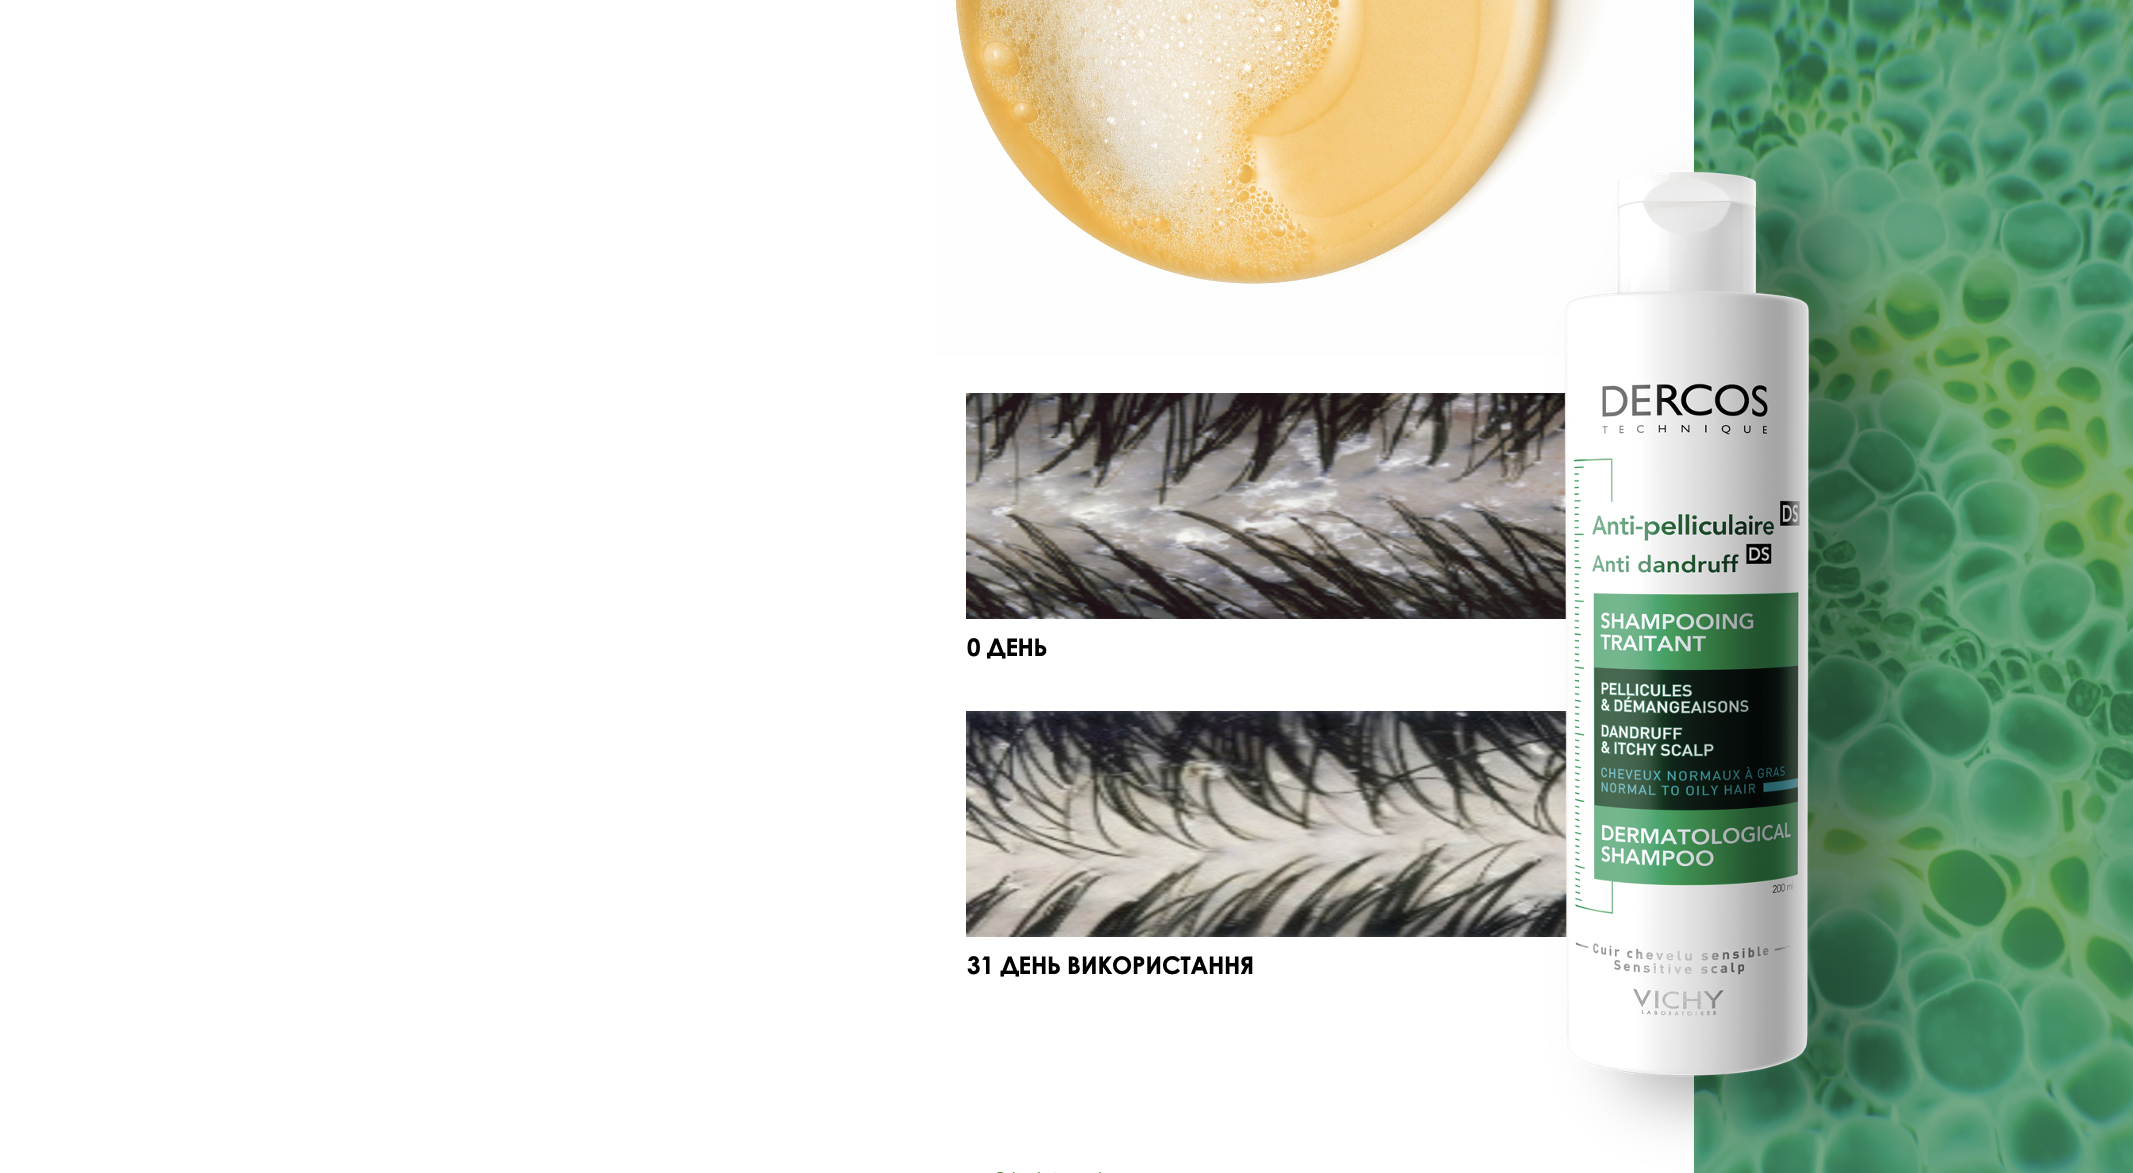
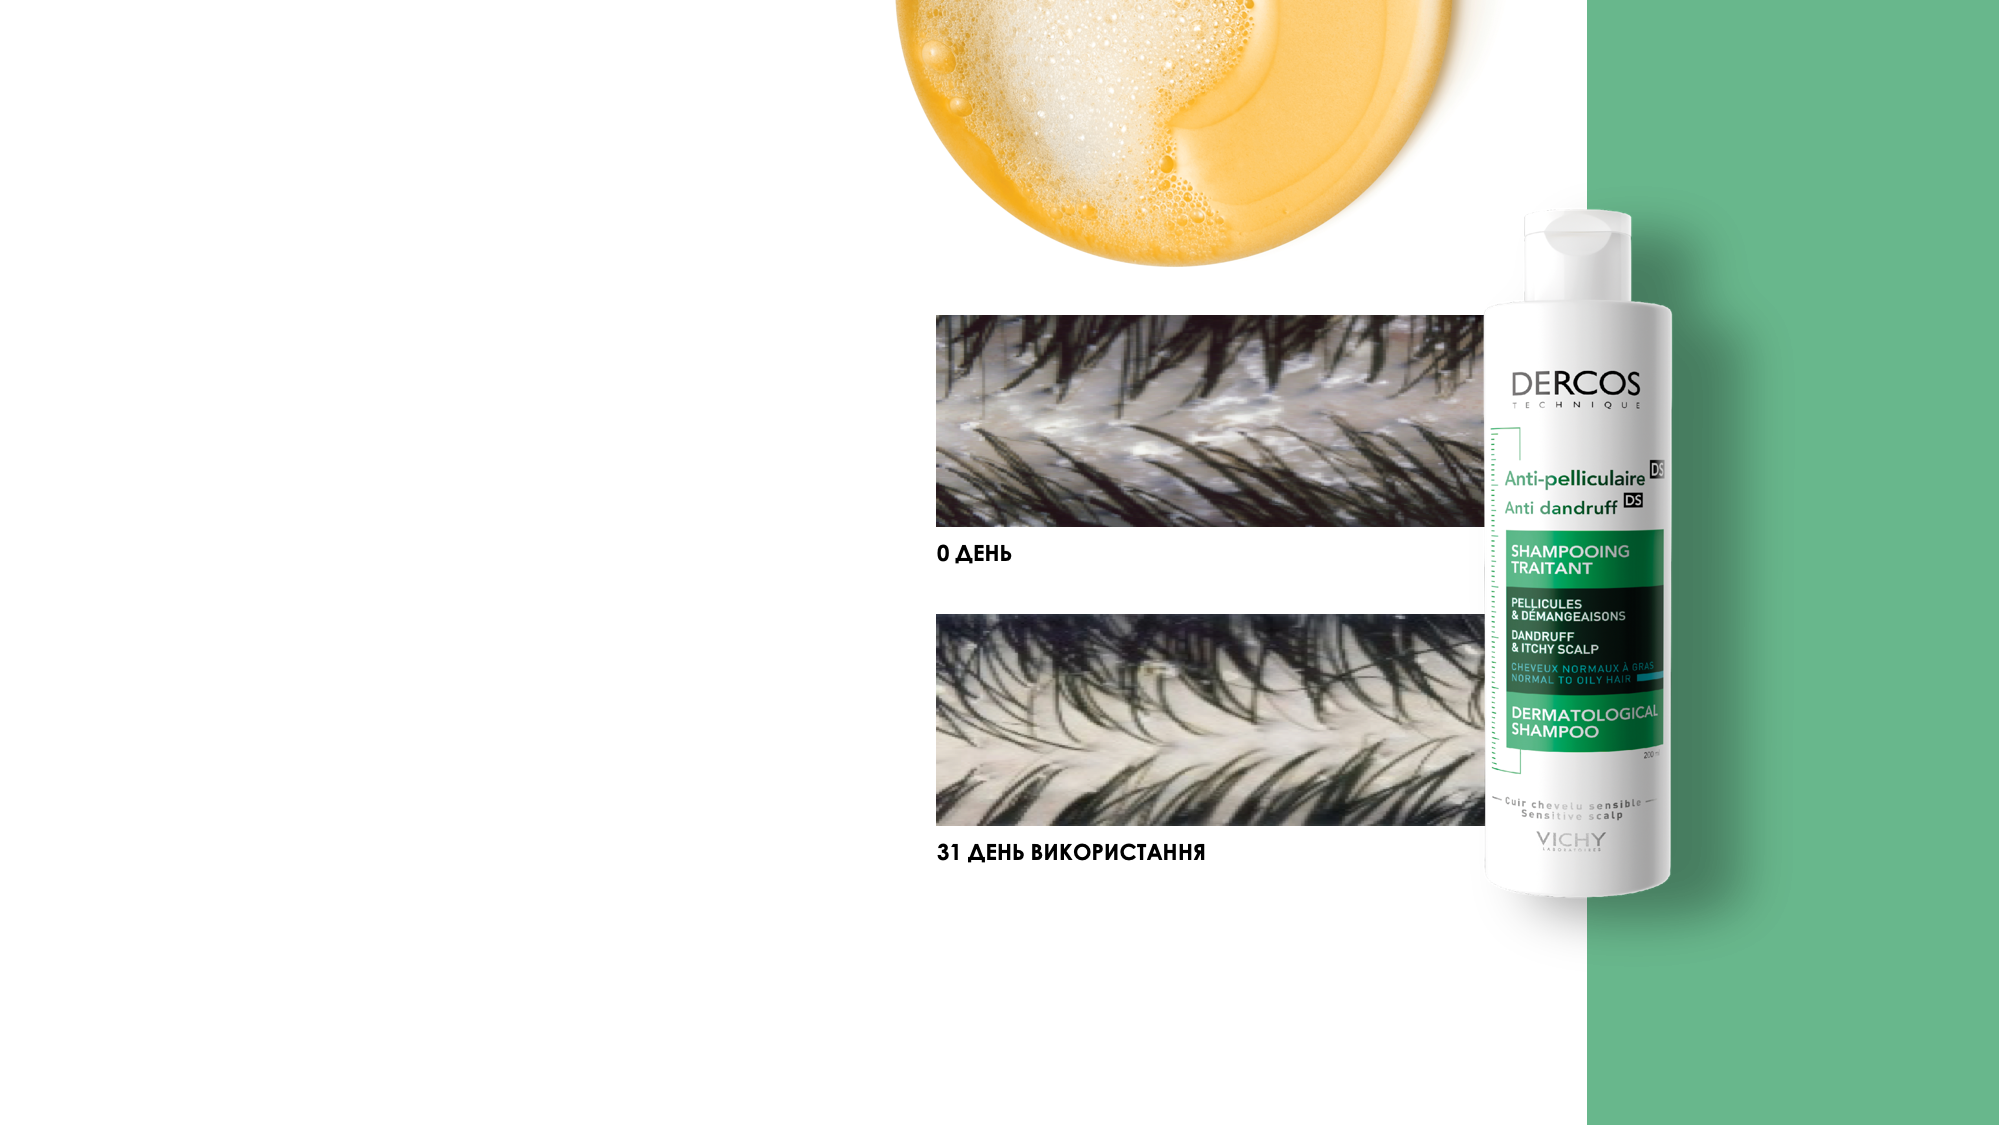
init

diff --git a/slides/slide13.html b/slides/slide13.html
@@ -46,7 +46,7 @@
 			color: #000000;
 			font-family: 'centurygothic_bold';
 			font-size: 1vw;
-			padding-left: 8vw;
+			padding-left: 11vw;
 			margin-top: 50px;
 		}
 
@@ -101,7 +101,6 @@
 		}
 
 		.h2 h2 {
-			padding-top: 70px;
 			color: #3f884e;
 			font-family: 'centurygothic_bold';
 			font-size: 4vw;

diff --git a/slides/slide3.html b/slides/slide3.html
@@ -54,7 +54,7 @@
 	<style>
 		.tex {
 			margin-top: 50px;
-			margin-left: 600px;
+			margin-left: 523px;
 			font-family: 'centurygothic';
 			font-size: 1vw;
 			color: #000000;

diff --git a/slides/slide11.html b/slides/slide11.html
@@ -36,7 +36,7 @@
 			font-family: 'centurygothic';
 			font-size: 0.8vw;
 			float: right;
-			margin-top: 50px;
+			margin-top: 25px;
 			margin-right: 200px;
 		}
 

diff --git a/slides/slide10.html b/slides/slide10.html
@@ -36,7 +36,7 @@
 			font-family: 'centurygothic';
 			font-size: 0.8vw;
 			float: right;
-			margin-top: 50px;
+			margin-top: 0px;
 			margin-right: 200px;
 		}
 

diff --git a/slides/slide14.html b/slides/slide14.html
@@ -128,7 +128,6 @@ background-position: center;">
 	}
 
 	.h2 h2 {
-		padding-top: 70px;
 		color: #3f884e;
 		font-family: 'centurygothic_bold';
 		font-size: 4vw;

diff --git a/slides/slide15.html b/slides/slide15.html
@@ -128,7 +128,6 @@
 		}
 	
 		.h2 h2 {
-			padding-top: 70px;
 			color: #3f884e;
 			font-family: 'centurygothic_bold';
 			font-size: 4vw;

diff --git a/slides/slide16.html b/slides/slide16.html
@@ -142,7 +142,6 @@
 		}
 
 		.h2 h2 {
-			padding-top: 70px;
 			color: #3f884e;
 			font-family: 'centurygothic_bold';
 			font-size: 4vw;

diff --git a/slides/slide12.html b/slides/slide12.html
@@ -68,7 +68,7 @@
 		}
 
 		.imags_bons {
-			top: 150px;
+			top: 60px;
 			position: absolute;
 			width: 400px;
 			margin-left: 40%;
